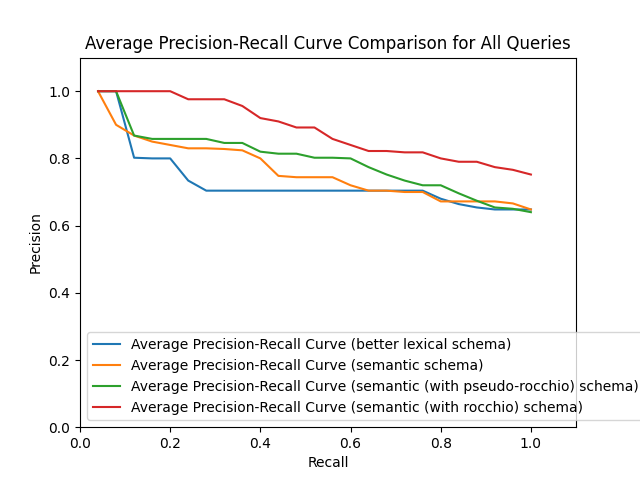
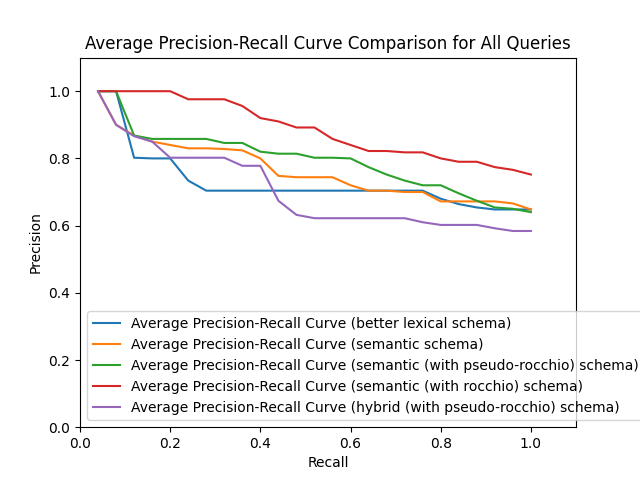
evaluatio done

diff --git a/solr/evaluation/avp_table.html b/solr/evaluation/avp_table.html
@@ -1,0 +1,60 @@
+<table border="1" class="dataframe centered">
+  <thead>
+    <tr style="text-align: right;">
+      <th></th>
+      <th>Q1</th>
+      <th>Q2</th>
+      <th>Q3</th>
+      <th>Q4</th>
+      <th>Q5</th>
+    </tr>
+  </thead>
+  <tbody>
+    <tr>
+      <th>better lexical schema</th>
+      <td>0.67</td>
+      <td>0.61</td>
+      <td>0.61</td>
+      <td>0.74</td>
+      <td>0.94</td>
+    </tr>
+    <tr>
+      <th>semantic schema</th>
+      <td>0.75</td>
+      <td>0.84</td>
+      <td>0.63</td>
+      <td>0.75</td>
+      <td>0.83</td>
+    </tr>
+    <tr>
+      <th>semantic (with pseudo-rocchio) schema</th>
+      <td>0.81</td>
+      <td>0.88</td>
+      <td>0.69</td>
+      <td>0.78</td>
+      <td>0.80</td>
+    </tr>
+    <tr>
+      <th>semantic (with rocchio) schema</th>
+      <td>0.86</td>
+      <td>0.81</td>
+      <td>0.89</td>
+      <td>0.95</td>
+      <td>0.91</td>
+    </tr>
+    <tr>
+      <th>hybrid (with pseudo-rocchio) schema</th>
+      <td>0.77</td>
+      <td>0.41</td>
+      <td>0.68</td>
+      <td>0.78</td>
+      <td>0.83</td>
+    </tr>
+  </tbody>
+</table>
+            <style>
+            .centered th, .centered td {
+                text-align: center;
+            }
+            </style>
+            

diff --git a/solr/evaluation/p_at_25_table.html b/solr/evaluation/p_at_25_table.html
@@ -1,0 +1,60 @@
+<table border="1" class="dataframe centered">
+  <thead>
+    <tr style="text-align: right;">
+      <th></th>
+      <th>Q1</th>
+      <th>Q2</th>
+      <th>Q3</th>
+      <th>Q4</th>
+      <th>Q5</th>
+    </tr>
+  </thead>
+  <tbody>
+    <tr>
+      <th>better lexical schema</th>
+      <td>0.60</td>
+      <td>0.44</td>
+      <td>0.60</td>
+      <td>0.72</td>
+      <td>0.88</td>
+    </tr>
+    <tr>
+      <th>semantic schema</th>
+      <td>0.56</td>
+      <td>0.68</td>
+      <td>0.60</td>
+      <td>0.64</td>
+      <td>0.76</td>
+    </tr>
+    <tr>
+      <th>semantic (with pseudo-rocchio) schema</th>
+      <td>0.60</td>
+      <td>0.72</td>
+      <td>0.52</td>
+      <td>0.68</td>
+      <td>0.68</td>
+    </tr>
+    <tr>
+      <th>semantic (with rocchio) schema</th>
+      <td>0.72</td>
+      <td>0.60</td>
+      <td>0.76</td>
+      <td>0.84</td>
+      <td>0.84</td>
+    </tr>
+    <tr>
+      <th>hybrid (with pseudo-rocchio) schema</th>
+      <td>0.68</td>
+      <td>0.20</td>
+      <td>0.76</td>
+      <td>0.48</td>
+      <td>0.80</td>
+    </tr>
+  </tbody>
+</table>
+            <style>
+            .centered th, .centered td {
+                text-align: center;
+            }
+            </style>
+            

diff --git a/solr/evaluation/map_table.html b/solr/evaluation/map_table.html
@@ -1,0 +1,36 @@
+<h1>MAP Table</h1><table border="1" class="dataframe centered">
+  <thead>
+    <tr style="text-align: right;">
+      <th></th>
+      <th>Mean Average Precision (MAP)</th>
+    </tr>
+  </thead>
+  <tbody>
+    <tr>
+      <th>better lexical schema</th>
+      <td>0.714</td>
+    </tr>
+    <tr>
+      <th>semantic schema</th>
+      <td>0.760</td>
+    </tr>
+    <tr>
+      <th>semantic (with pseudo-rocchio) schema</th>
+      <td>0.792</td>
+    </tr>
+    <tr>
+      <th>semantic (with rocchio) schema</th>
+      <td>0.884</td>
+    </tr>
+    <tr>
+      <th>hybrid (with pseudo-rocchio) schema</th>
+      <td>0.694</td>
+    </tr>
+  </tbody>
+</table>
+        <style>
+        .centered th, .centered td {
+            text-align: center;
+        }
+        </style>
+        

diff --git a/scripts/evaluation.py b/scripts/evaluation.py
@@ -2,6 +2,8 @@ import json
 import matplotlib.pyplot as plt
 import argparse
 
+import pandas as pd
+
 LIMIT = 25
 PRECISION_AT = 25
 QUERIES = 5
@@ -215,6 +217,58 @@ def combine_all_queries_graph(results: dict, schemas: list[int]) -> None:
     plt.close()
 
 
+
+def get_table(stats, schemas):
+    # Initialize dictionaries to store P@25 and AvP values
+    p_at_25_values = {f"{schemas_dict[schema]} schema": [] for schema in schemas}
+    avp_values = {f"{schemas_dict[schema]} schema": [] for schema in schemas}
+
+    # Populate the dictionaries with values from stats
+    for entry in stats:
+        schema_name = f"{schemas_dict[int(entry['schema'])]} schema"
+        p_at_25_values[schema_name].append(entry[f'P@{PRECISION_AT}'])
+        avp_values[schema_name].append(entry['AvP'])
+
+    # Create DataFrames for P@25 and AvP values and transpose them
+    p_at_25_df = pd.DataFrame(p_at_25_values, index=[f'Q{q}' for q in range(1, QUERIES + 1)]).T
+    avp_df = pd.DataFrame(avp_values, index=[f'Q{q}' for q in range(1, QUERIES + 1)]).T
+
+    # Save the tables as HTML files with centered numbers
+    for df, filename in [(p_at_25_df, 'p_at_25_table.html'), (avp_df, 'avp_table.html')]:
+        with open(f'../solr/evaluation/{filename}', 'w') as file:
+            file.write(df.to_html(index=True, header=True, classes='centered'))
+
+        # Add CSS to center the numbers
+        with open(f'../solr/evaluation/{filename}', 'a') as file:
+            file.write('''
+            <style>
+            .centered th, .centered td {
+                text-align: center;
+            }
+            </style>
+            ''')
+
+def get_map_table(map_values):
+    # Replace schema numbers with schema names and append "schema"
+    map_values_named = {f"{schemas_dict[schema]} schema": value for schema, value in map_values.items()}
+
+    # Create DataFrame for MAP values
+    map_df = pd.DataFrame(map_values_named, index=['Mean Average Precision (MAP)']).T
+
+    # Save the table as an HTML file with centered numbers
+    with open('../solr/evaluation/map_table.html', 'w') as file:
+        file.write('<h1>MAP Table</h1>')
+        file.write(map_df.to_html(index=True, header=True, classes='centered'))
+
+    # Add CSS to center the numbers
+    with open('../solr/evaluation/map_table.html', 'a') as file:
+        file.write('''
+        <style>
+        .centered th, .centered td {
+            text-align: center;
+        }
+        </style>
+        ''')
 def main(milestone, mode):
     schemas = [1, 2]
     if milestone not in [2, 3]:
@@ -222,7 +276,7 @@ def main(milestone, mode):
         return
 
     if milestone == 3:
-        schemas = [2, 3, 4, 5,6]
+        schemas = [2, 3, 4, 5,6 ]
 
     stats = []
     results = {}
@@ -249,6 +303,8 @@ def main(milestone, mode):
         'Results per query and per mode': stats,
         'Global MAP': mean_average_precision(stats, schemas),
     }
+    get_table(stats, schemas)
+    get_map_table(mean_average_precision(stats, schemas))
 
     print(json.dumps(output, indent=2))
 
